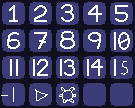
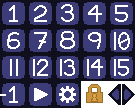
graphics
-updated buttons
-updated select
-added settings
-added WrapImage

diff --git a/screen/select.py b/screen/select.py
@@ -8,51 +8,56 @@ import audio
 import globalvars
 import level_loader
 from screen.component.button import Button
+from screen.component.wrap_img import WrapImage
 from screen.level import LevelScreen
 from screen.screen import Screen
 
 
 class SelectScreen(Screen):
-    IMAGE = None
-    BUTTON_IMG = None
     def __init__(self, args: tuple):
         super().__init__(args)
         self.wrap_amt = 0
         audio.title()
 
+        self.components.append(WrapImage("levelSelect",4))
+
         def on_click(level):
             def new():
-                globalvars.CURR_SCREEN = LevelScreen((level_loader.load_level(level),))
+                if globalvars.LEVELS_UNLOCKED>level:
+                    print()
+                    globalvars.CURR_SCREEN = LevelScreen((level_loader.load_level("level"+str(level+1)),))
             return new
-        self.components.append(Button(10,40,27, 27, on_click("level1")))
-        self.components.append(Button(40,40,27, 27, on_click("level2")))
-        self.components.append(Button(70,40,27, 27, on_click("level3")))
-        self.components.append(Button(100,40,27, 27, on_click("level4")))
-        self.components.append(Button(10,70,27, 27, on_click("level5")))
-        self.components.append(Button(40,70,27, 27, on_click("level6")))
-        self.components.append(Button(70,70,27, 27, on_click("level7")))
-        self.components.append(Button(100,70,27, 27, on_click("level8")))
+        self.buttons = []
+        self.scroll_offs=globalvars.LEVELS_UNLOCKED-1
+        self.vis_scroll_offs=globalvars.LEVELS_UNLOCKED-1
+        for i in range(15):
+            button = Button(75+i*40, 50, 27, 27, on_click(i))
+            self.components.append(button)
+            self.buttons.append(button)
 
-        if SelectScreen.IMAGE is None:
-            SelectScreen.IMAGE = pygame.image.load(os.path.join('resources', 'levelSelect.png')).convert_alpha()
-        if SelectScreen.BUTTON_IMG is None:
-            SelectScreen.BUTTON_IMG = pygame.image.load(os.path.join('resources', 'buttons.png')).convert_alpha()
+        def scroll(amt):
+            def new(): self.scroll_offs=min(14,max(0,self.scroll_offs+amt))
+            return new
+        self.components.append(Button(10, 50, 13, 27, scroll(-1)))
+        self.components.append(Button(153, 50, 13, 27, scroll(1)))
 
     def render(self, screen: Surface):
         self.screen = screen
         screen.fill(pygame.Color(30,30,60))
         super().render(screen)
-        self.wrap_amt = (self.wrap_amt+0.015)%(math.pi*2)
-        amt = round(math.sin(self.wrap_amt)*8+4)
-        screen.blit(SelectScreen.IMAGE,(0,3), (2-amt,0,176,37))
-        screen.blit(SelectScreen.IMAGE,(amt-12,3), (167,0,5,37))
-        screen.blit(SelectScreen.IMAGE,(175+amt,3), (0,0,5,37))
 
-        self.screen.blit(SelectScreen.BUTTON_IMG, (10,40), (0, 0, 27, 27))
-        self.screen.blit(SelectScreen.BUTTON_IMG, (40,40), (27, 0, 27, 27))
-        self.screen.blit(SelectScreen.BUTTON_IMG, (70,40), (54 ,0, 27, 27))
-        self.screen.blit(SelectScreen.BUTTON_IMG, (100,40), (81, 0, 27, 27))
-        self.screen.blit(SelectScreen.BUTTON_IMG, (10,70), (108, 0, 27, 27))
-        self.screen.blit(SelectScreen.BUTTON_IMG, (40,70), (0, 27, 27, 27))
-        self.screen.blit(SelectScreen.BUTTON_IMG, (70,70), (27, 27, 27, 27))
-        self.screen.blit(SelectScreen.BUTTON_IMG, (100,70), (54, 27, 27, 27))
+        self.vis_scroll_offs=self.vis_scroll_offs*0.9+self.scroll_offs*0.1
+        for i in range(15):
+            self.buttons[i].x = 75+i*40-self.vis_scroll_offs*40
+            if abs(i-self.vis_scroll_offs)>1.3:
+                self.buttons[i].y = 100
+            else:
+                self.buttons[i].y = 50
+                self.screen.blit(globalvars.IMAGES["buttons"], (self.buttons[i].x, 50),
+                                 ((i % 5) * 27, math.floor(i / 5) * 27, 27, 27))
+                if globalvars.LEVELS_UNLOCKED<=i:
+                    self.screen.blit(globalvars.IMAGES["buttons"], (self.buttons[i].x, 50),
+                                     (81, 81, 27, 27))
+
+        self.screen.blit(globalvars.IMAGES["buttons"], (10,50), (108, 81, 13, 27))
+        self.screen.blit(globalvars.IMAGES["buttons"], (153,50), (122, 81, 13, 27))

diff --git a/screen/title.py b/screen/title.py
@@ -6,36 +6,33 @@ from pygame import Surface
 
 import audio
 import globalvars
-import level_loader
 from screen.component.button import Button
-from screen.level import LevelScreen
+from screen.component.wrap_img import WrapImage
 from screen.screen import Screen
 from screen.select import SelectScreen
+from screen.settings import SettingsScreen
 
 
 class TitleScreen(Screen):
-    IMAGE = None
     def __init__(self, args: tuple):
         super().__init__(args)
         self.wrap_amt = 0
         audio.title()
 
+        self.components.append(WrapImage("title",2))
+
         def on_click():
             globalvars.CURR_SCREEN = SelectScreen(())
-        self.components.append(Button(58,50,60,30, on_click))
-
-        if TitleScreen.IMAGE is None:
-            TitleScreen.IMAGE = pygame.image.load(os.path.join('resources', 'title.png')).convert_alpha()
+        self.components.append(Button(75,50,27,27, on_click))
+        def on_click2():
+            globalvars.CURR_SCREEN = SettingsScreen(())
+        self.components.append(Button(25,50,27,27, on_click2))
 
     def render(self, screen: Surface):
         self.screen = screen
-        screen.fill(pygame.Color(30,30,60))
+        screen.fill((30,30,60))
         super().render(screen)
-        self.wrap_amt = (self.wrap_amt+0.015)%(math.pi*2)
-        amt = round(math.sin(self.wrap_amt)*8+2)
-        screen.blit(TitleScreen.IMAGE,(0,3), (2-amt,0,176,33))
-        screen.blit(TitleScreen.IMAGE,(amt-10,3), (169,0,5,33))
-        screen.blit(TitleScreen.IMAGE,(175+amt,3), (0,0,7,33))
 
-        pygame.draw.rect(screen, (255,255,255), (58,50,60,30))
+        self.screen.blit(globalvars.IMAGES["buttons"], (75,50), (27,81, 27, 27))
+        self.screen.blit(globalvars.IMAGES["buttons"], (25,50), (54,81, 27, 27))
 

diff --git a/screen/component/wrap_img.py b/screen/component/wrap_img.py
@@ -1,0 +1,21 @@
+import math
+import os
+
+import pygame
+
+from screen.component.component import Component
+
+
+wrap_amt = 0
+class WrapImage(Component):
+    def __init__(self, img_name, offs):
+        super().__init__()
+        self.offs = offs
+        self.image = pygame.image.load(os.path.join('resources', img_name+'.png')).convert_alpha()
+    def render(self, screen):
+        global wrap_amt
+        wrap_amt = (wrap_amt+0.015)%(math.pi*2)
+        amt = round(math.sin(wrap_amt)*8+self.offs)
+        screen.blit(self.image, (0, 3), (2 - amt, 0, 176, 99))
+        screen.blit(self.image, (amt - 8-self.offs, 3), (171-self.offs, 0, 8, 99))
+        screen.blit(self.image, (175 + amt, 3), (0, 0, 9-self.offs, 99))

diff --git a/main.py b/main.py
@@ -1,3 +1,5 @@
+import os
+
 import pygame
 from pygame import Surface
 
@@ -30,6 +32,9 @@ for entity in {disk, player, solid, spawn, tiles, spikes, display}:
     entity.init()
 
 globalvars.CURR_SCREEN = TitleScreen(())
+globalvars.IMAGES = {
+    "buttons": pygame.image.load(os.path.join('resources', 'buttons.png')).convert_alpha(),
+}
 
 while running:
     for event in pygame.event.get():

diff --git a/screen/settings.py b/screen/settings.py
@@ -1,0 +1,14 @@
+from screen.component.wrap_img import WrapImage
+from screen.screen import Screen
+
+
+class SettingsScreen(Screen):
+    def __init__(self, args: tuple):
+        super().__init__(args)
+
+        self.components.append(WrapImage("settings",3))
+
+    def render(self, screen):
+        screen.fill((30,30,60))
+        
+        super().render(screen)

diff --git a/globalvars.py b/globalvars.py
@@ -1,6 +1,6 @@
 CURR_SCREEN = None
 
-LEVELS_UNLOCKED = 0
+LEVELS_UNLOCKED = 1
 PIXEL_WIDTH=8
 
 MOUSE = {
@@ -11,3 +11,5 @@ MOUSE = {
 }
 
 TIMER = 0
+
+IMAGES = {}
